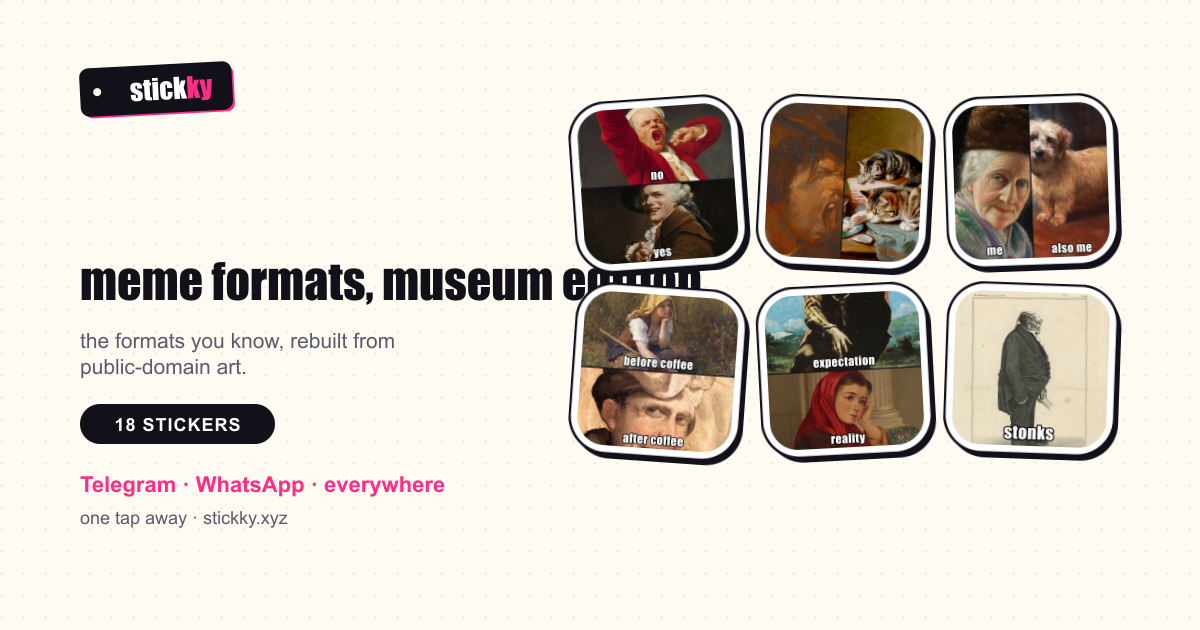
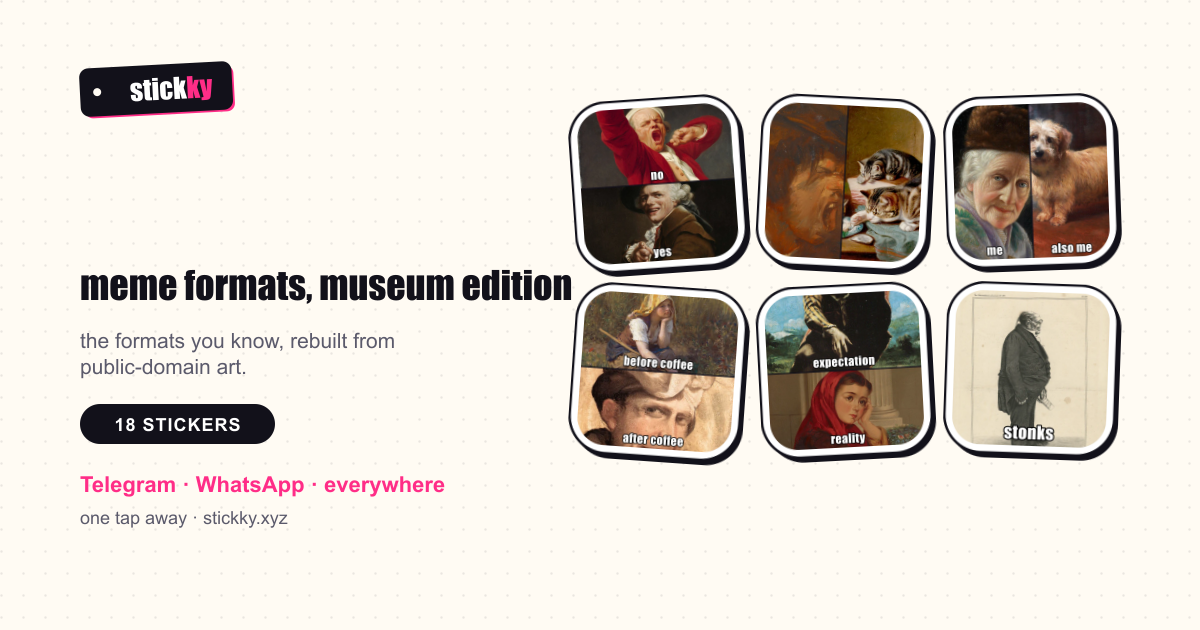
vitrin: uzun set adı için 38 pt kademesi; katalog-sayfasi aracı
Claude-Session: https://claude.ai/code/session_01ASbtZTXfN8WaGqQnKaqCTQ

Changed region(s): [[0.0617, 0.4222, 0.5858, 0.4825]]

diff --git a/arac/katalog-sayfasi.js b/arac/katalog-sayfasi.js
@@ -1,0 +1,27 @@
+'use strict';
+/**
+ * Yayındaki setlerin kapaklarını tek katalog görseline döker (göz denetimi,
+ * kullanıcıya "işte hepsi" demek için).  node arac/katalog-sayfasi.js
+ * → veri/tarama/setler/katalog.jpg  (3 sütun, kapak 1200×630 → 400×210)
+ */
+const fs = require('fs');
+const path = require('path');
+const sharp = require('sharp');
+const depo = require('../lib/depo');
+
+const KOK = path.join(__dirname, '..');
+const SUTUN = 3, W = 400, H = 210, BOSLUK = 8;
+
+(async () => {
+  const setler = depo.setListe().filter(s => s.durum === 'yayinda' && fs.existsSync(path.join(KOK, 'yayin-kaydi', 'kapak', s.id + '.png')));
+  const satir = Math.ceil(setler.length / SUTUN);
+  const katman = [];
+  for (const [i, s] of setler.entries()) {
+    const k = await sharp(path.join(KOK, 'yayin-kaydi', 'kapak', s.id + '.png')).resize(W, H).png().toBuffer();
+    katman.push({ input: k, left: (i % SUTUN) * (W + BOSLUK), top: Math.floor(i / SUTUN) * (H + BOSLUK) });
+  }
+  const cikti = path.join(depo.VERI, 'tarama', 'setler', 'katalog.jpg');
+  await sharp({ create: { width: SUTUN * (W + BOSLUK) - BOSLUK, height: satir * (H + BOSLUK) - BOSLUK, channels: 3, background: '#12111A' } })
+    .composite(katman).jpeg({ quality: 86 }).toFile(cikti);
+  console.log(`${setler.length} kapak → ${path.relative(KOK, cikti)}`);
+})();

diff --git a/lib/vitrin.js b/lib/vitrin.js
@@ -109,7 +109,7 @@ async function vitrinUret(setId) {
      İngilizce (pazar dolar). Başlık uzunsa punto iner, iki satıra bölünmez —
      kapak tek bakışta okunmalı. */
   const ad = kacar(set.ad).toLowerCase();
-  const punto = ad.length <= 12 ? 76 : ad.length <= 18 ? 60 : 48;
+  const punto = ad.length <= 12 ? 76 : ad.length <= 18 ? 60 : ad.length <= 22 ? 48 : 38;
   // Açıklama sol sütuna (≈460 px) sığmalı: 40 karakterde kır, en fazla iki
   // satır; taşan kısım "…" olur. Izgaraya girip okunmaz olmasın.
   const kelimeler = (set.aciklama || '').split(/\s+/).filter(Boolean);
